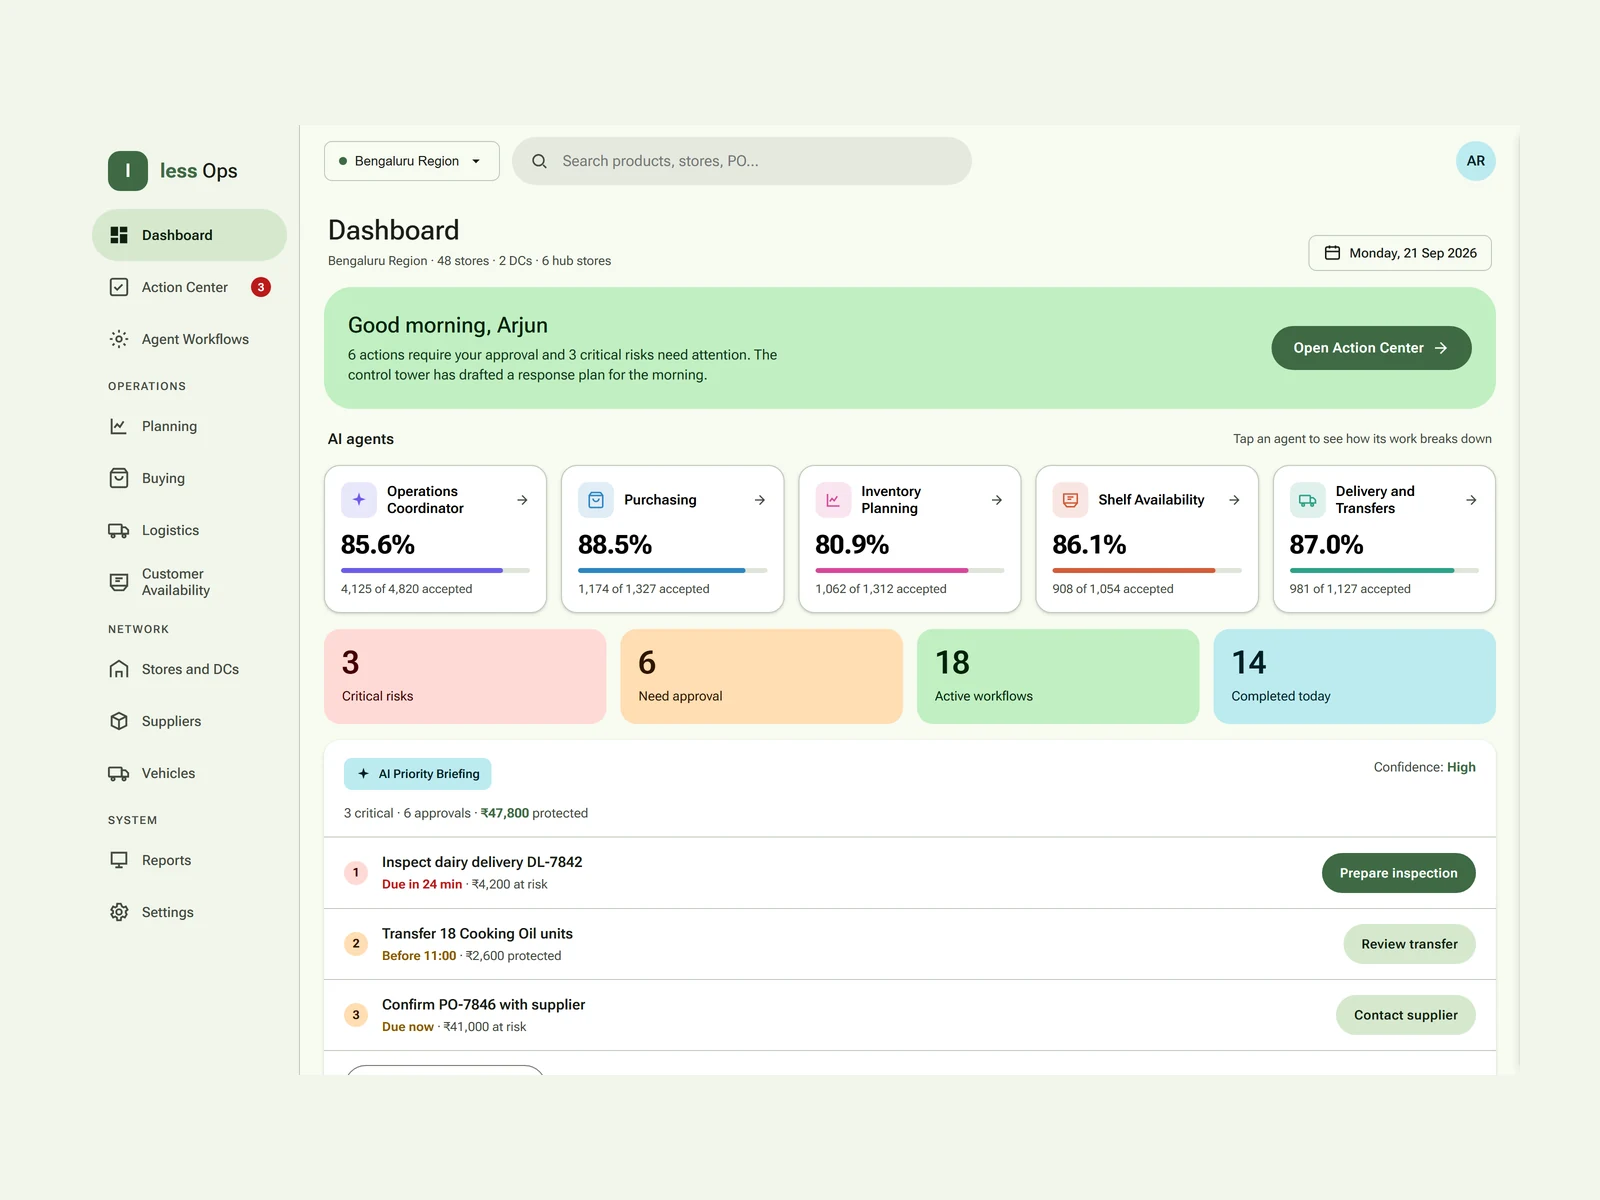
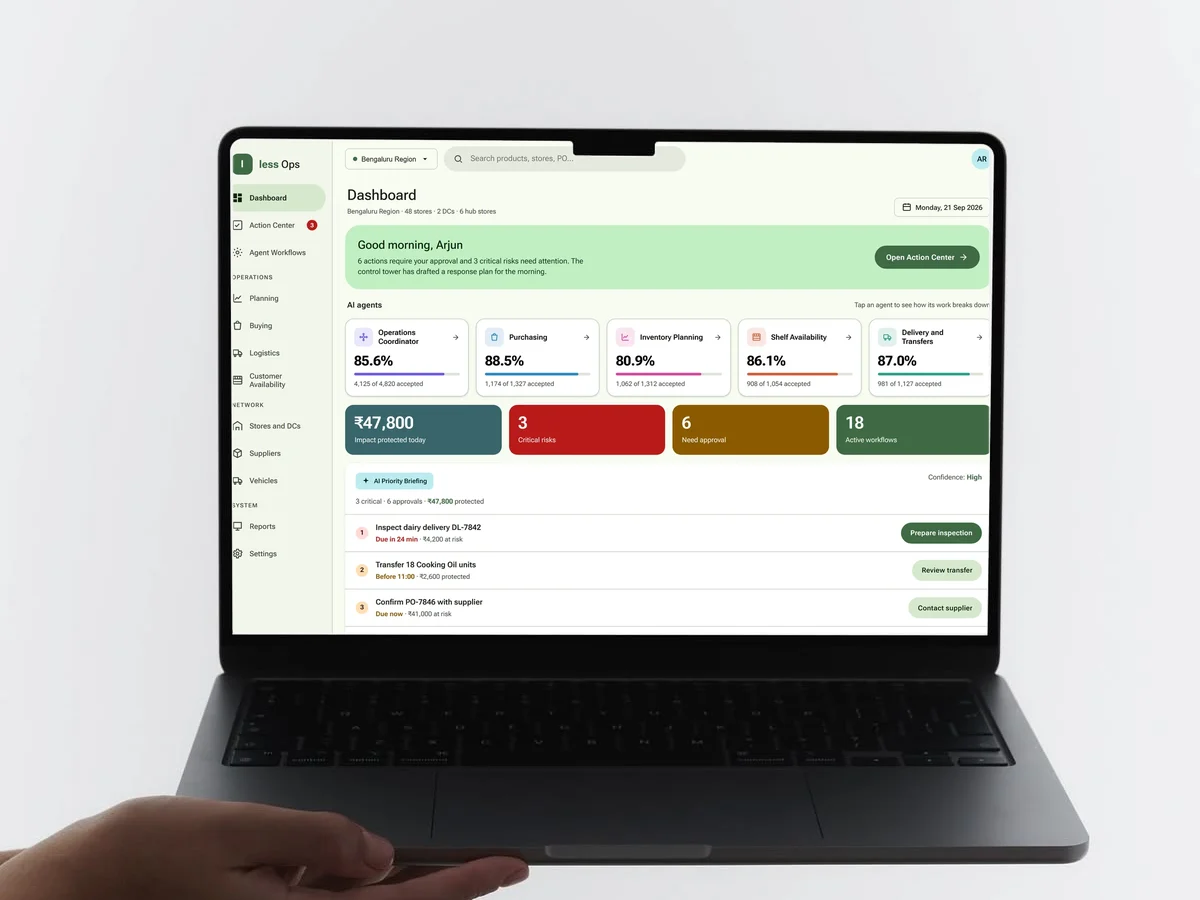
Show less Ops on a MacBook held in the hand
The card's image was the dashboard letterboxed on grey, which read as a
screenshot rather than a product. It now sits in the hand-held MacBook Air
mockup, cropped to the card's 4:3.

The screen is masked as everything inside its rectangle except the bezel
reaching into it — the dark pixels joined to its edge, which is the notch
and the rounded corners exactly as the photo has them. A brightness mask
was tried first and let the mockup's own lettering show through the
dashboard. The source mockup and the full composite are kept in
media/src.

diff --git a/script.js b/script.js
@@ -259,7 +259,7 @@ const WORK = [
     // Decoded from the case study's own hero mockup and letterboxed onto the
     // artwork's background, so the laptop keeps its full width — the same
     // reason the insure-tech plate is padded rather than cover-cropped.
-    thumb: "media/less-ops-card.webp",
+    thumb: "media/less-ops-card.webp?v=2",
     // Opens in a tab rather than the portal: this one is a deployed site, not
     // a study embedded in the page, and it carries its own navigation.
     href: "https://less-ops.vercel.app/",

diff --git a/index.html b/index.html
@@ -368,6 +368,6 @@
   </footer>
 
   <script src="hand.js?v=254"></script>
-  <script src="script.js?v=403"></script>
+  <script src="script.js?v=404"></script>
 </body>
 </html>
